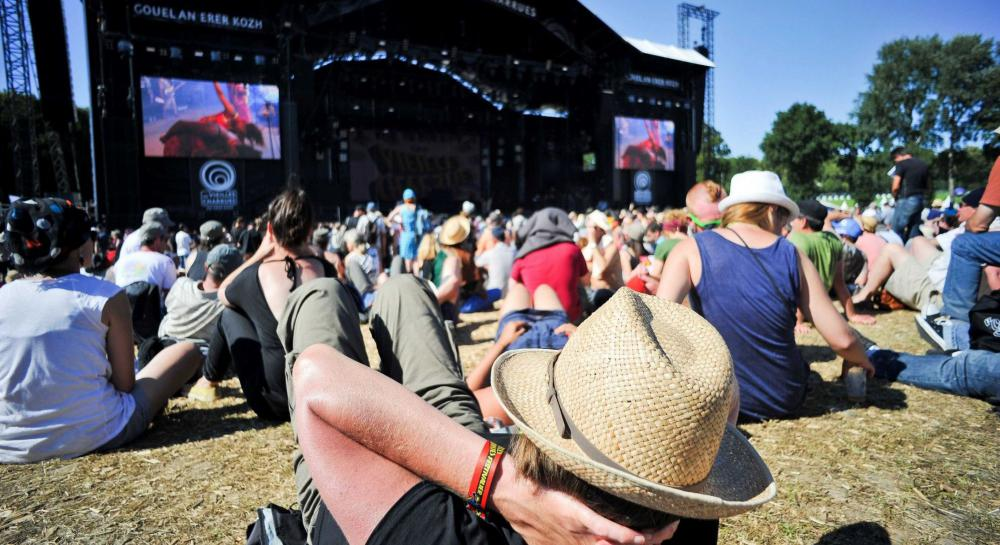
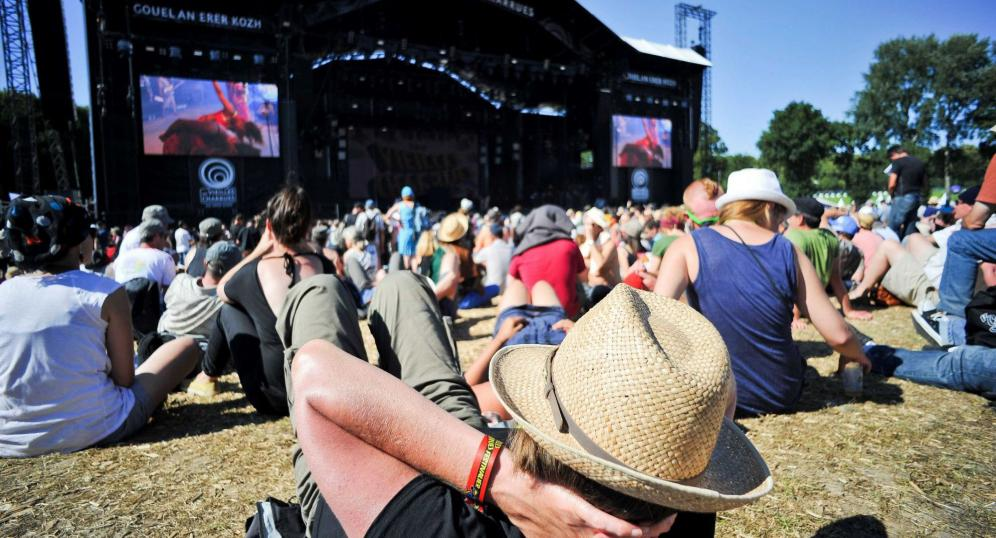
affichage photos page d'accueil grace a BDD

Changed region(s): [[0.996, 0.9219, 1.0, 0.9517], [0.4669, 0.8922, 0.498, 0.9219], [0.0, 0.9219, 0.0311, 0.9517]]

diff --git a/corps_accueil.html b/corps_accueil.html
@@ -2,84 +2,77 @@
 <html>
 <link rel="stylesheet" href="corps_accueil.css" />
 
-    <section id="slideshow">
+<section id="slideshow">
 
-    <div class="container">
-      <div class="c_slider"></div>
-      <div class="slider">
+  <div class="container">
+    <div class="c_slider"></div>
+    <div class="slider">
+
+      <?php
+      try
+      { $bdd = new PDO('mysql:host=localhost;dbname=connexion_gauloise', 'root', '');}
+      catch (Exception $e)
+      {die('Erreur : '.$e->getMessage());} //en cas d'erreur on affiche un message
+      // récupération de 10 événements aléatoires
+      $req = $bdd->query('SELECT Nom_Evenement, JourDebut_Evenement, Image_Evenement, AdressePostal_Evenement FROM evenement_table ORDER BY RAND() LIMIT 3');
+
+      while ($donnees = $req->fetch())
+      {
+        ?>
+
         <figure>
-          <a href="@"><img src="Images_code/IMG_Event_Large/rassemblement.jpg.jpg" alt=""  /></a>
+          <a href="@" ><img src="Images_code/IMG_Event_Large/<?php echo($donnees['Image_Evenement']);?>.jpg" class="photo1"/></a>
           <figcaption>
-            <p><h3> Rassemblement - 23 Avril 2016 </h3></p>
-            <p> Paris </p>
+            <p><h3> <?php echo ($donnees['Nom_Evenement']);?> | <?php echo ($donnees['JourDebut_Evenement']);?> </h3></p>
+            <p> <?php echo htmlspecialchars($donnees['AdressePostal_Evenement']);?> </p>
           </figcaption>
 
-        </figure><!--
-        --><figure>
-          <a href="@"><img src="Images_code/IMG_Event_Large/concert.jpg.jpg" alt="" /></a>
-          <figcaption>
-            <p><h3> Concert - 24 Avril 2016 </h3></p>
-            <p> Strasbourg </p>
-          </figcaption>
-
-        </figure><!--
-        -->
-        <figure>
-          <a href="@" ><img src="Images_code/IMG_Event_Large/festival.jpg.jpg" alt="" /></a>
-          <figcaption>
-            <p><h3> Festival - 24 Avril 2016 </h3></p>
-            <p> Dunkerque </p>
-          </figcaption>
         </figure>
-      </div>
-    </div>
-  </br>
-  </br>
-    <div id="cat1">
-      <div id="titre1">
-        <ul>
-          <li> <h3> 17 Octobre 2016 </h3> </li>
-          <li> <h5>Course au jardin du Luxembourg </h5></li>
-        </ul>
-      </div>
-      <img src="Images_code/IMG_Event_Mini/marathon.jpg.jpg" class="photo1"/>
-      <div id="ssmenu1">
-        <ul>
-          <li> La 21 ème édition des 21km du Luxembourg </li>
-          <li> N'hésitez pas à vous inscrire ! </li>
-        </ul>
-      </div>
-    </div>
 
-    <div id="cat2">
-      <div id="titre2">
-        <ul>
-          <li> <h3> 23 Octobre 2016 </h3> </li>
-          <li> <h5> Soirée Raclette </h5></li>
-        </ul>
-      </div>
-      <img src="Images_code/IMG_Event_Mini/raclette.jpg.jpg" class="photo2"/>
-      <div id="ssmenu2">
-        <ul>
-          <li> Soirée à la salle des fêtes du XVIIIème, Paris</li>
-          <li> Venez nombreux !</li>
-      </div>
-    </div>
+        <?php
+      } // Fin de la boucle
+      $req->closeCursor();
+      ?>
 
-    <div id="cat3">
-      <div id="titre3">
-        <ul>
-          <li> <h3> 2 Novembre 2016 </h3> </li>
-          <li> <h5> Concert Time Impala </h5></li>
-        </ul>
-      </div>
-      <img src="Images_code/IMG_Event_Mini/tameimpala.jpg.jpg" class="photo3"/>
-      <div id="ssmenu3">
-        <ul>
-          <li> Concert du Groupe de Rock australien </li>
-          <li> Nouvel album : Currents </li>
-      </div>
     </div>
-    </section>
+  </div>
+</br>
+</br>
+
+
+
+
+<?php
+try
+{ $bdd = new PDO('mysql:host=localhost;dbname=connexion_gauloise', 'root', '');}
+catch (Exception $e)
+{die('Erreur : '.$e->getMessage());} //en cas d'erreur on affiche un message
+// récupération des 3 derniers événements postés
+$req = $bdd->query('SELECT Nom_Evenement, JourDebut_Evenement, Description_Evenement, Image_Evenement, AdressePostal_Evenement FROM evenement_table ORDER BY ID_Evenement DESC LIMIT 0,3');
+
+while ($donnees = $req->fetch())
+{
+  ?>
+  <div id="cat1">
+    <div id="titre1">
+      <ul>
+        <li> <h3> <?php echo ($donnees['JourDebut_Evenement']);?> </h3> </li>
+        <li> <h5> <a href="@"><?php echo ($donnees['Nom_Evenement']);?> | <?php echo htmlspecialchars($donnees['AdressePostal_Evenement']);?> </a></h5></li>
+      </ul>
+    </div>
+    <a href="@" ><img src="Images_code/IMG_Event_Mini/<?php echo($donnees['Image_Evenement']);?>.jpg" class="photo1"/></a>
+    <div id="ssmenu1">
+      <ul>
+        <li> <?php echo nl2br(($donnees['Description_Evenement']));?> </li>
+      </ul>
+    </div>
+  </div>
+
+  <?php
+} // Fin de la boucle
+$req->closeCursor();
+?>
+
+</section>
 
 </html>

diff --git a/Style-form.css b/Style-form.css
@@ -138,6 +138,11 @@ input[type=password],[type=email],[type=file],[type=url] {
     width: 30%; /largeur du champs
 }
 
+a{
+color: white;
+
+}
+
 a, input[type=date],[type=time]{
       font-size:25px;
 }

diff --git a/auto.php b/auto.php
@@ -1,0 +1,59 @@
+
+<?php
+try
+{ $bdd = new PDO('mysql:host=localhost;dbname=connexion_gauloise', 'root', '');}
+catch (Exception $e)
+{die('Erreur : '.$e->getMessage());} //en cas d'erreur on affiche un message
+// récupération de 10 événements aléatoires
+$req = $bdd->query('SELECT Nom_Evenement, JourDebut_Evenement, Image_Evenement, AdressePostal_Evenement FROM evenement_table ORDER BY RAND() LIMIT 3');
+
+while ($donnees = $req->fetch())
+{
+  ?>
+
+  <figure>
+    <a href="@" ><img src="Images_code/IMG_Event_Large/<?php echo($donnees['Image_Evenement']);?>.jpg" class="photo1"/></a>
+    <figcaption>
+      <p><h3> <?php echo ($donnees['Nom_Evenement']);?> | <?php echo ($donnees['JourDebut_Evenement']);?> </h3></p>
+      <p> <?php echo htmlspecialchars($donnees['AdressePostal_Evenement']);?> </p>
+    </figcaption>
+
+  </figure>
+
+  <?php
+} // Fin de la boucle
+$req->closeCursor();
+?>
+
+
+
+<?php
+try
+{ $bdd = new PDO('mysql:host=localhost;dbname=connexion_gauloise', 'root', '');}
+catch (Exception $e)
+{die('Erreur : '.$e->getMessage());} //en cas d'erreur on affiche un message
+// récupération des 3 derniers événements postés
+$req = $bdd->query('SELECT Nom_Evenement, JourDebut_Evenement, Description_Evenement, Image_Evenement, AdressePostal_Evenement FROM evenement_table ORDER BY ID_Evenement DESC LIMIT 0,3');
+
+while ($donnees = $req->fetch())
+{
+?>
+<div id="cat1">
+<div id="titre1">
+<ul>
+  <li> <h3> <?php echo ($donnees['JourDebut_Evenement']);?> </h3> </li>
+  <li> <h5> <a href="@"><?php echo ($donnees['Nom_Evenement']);?> | <?php echo htmlspecialchars($donnees['AdressePostal_Evenement']);?> </a></h5></li>
+</ul>
+</div>
+<a href="@" ><img src="Images_code/IMG_Event_Mini/<?php echo($donnees['Image_Evenement']);?>.jpg" class="photo1"/></a>
+<div id="ssmenu1">
+<ul>
+  <li> <?php echo nl2br(($donnees['Description_Evenement']));?> </li>
+</ul>
+</div>
+</div>
+
+<?php
+} // Fin de la boucle
+$req->closeCursor();
+?>

diff --git a/redimension.php b/redimension.php
@@ -21,7 +21,7 @@ switch ($extension)
  }
 $destination_mini = imagecreatetruecolor(270, 100); // On crée la miniature vide
 
-$destination_large = imagecreatetruecolor(1000, 545); // On crée l'agrandissement vide
+$destination_large = imagecreatetruecolor(996, 538); // On crée l'agrandissement vide
 
 // Les fonctions imagesx et imagesy renvoient la largeur et la hauteur d'une image
 
